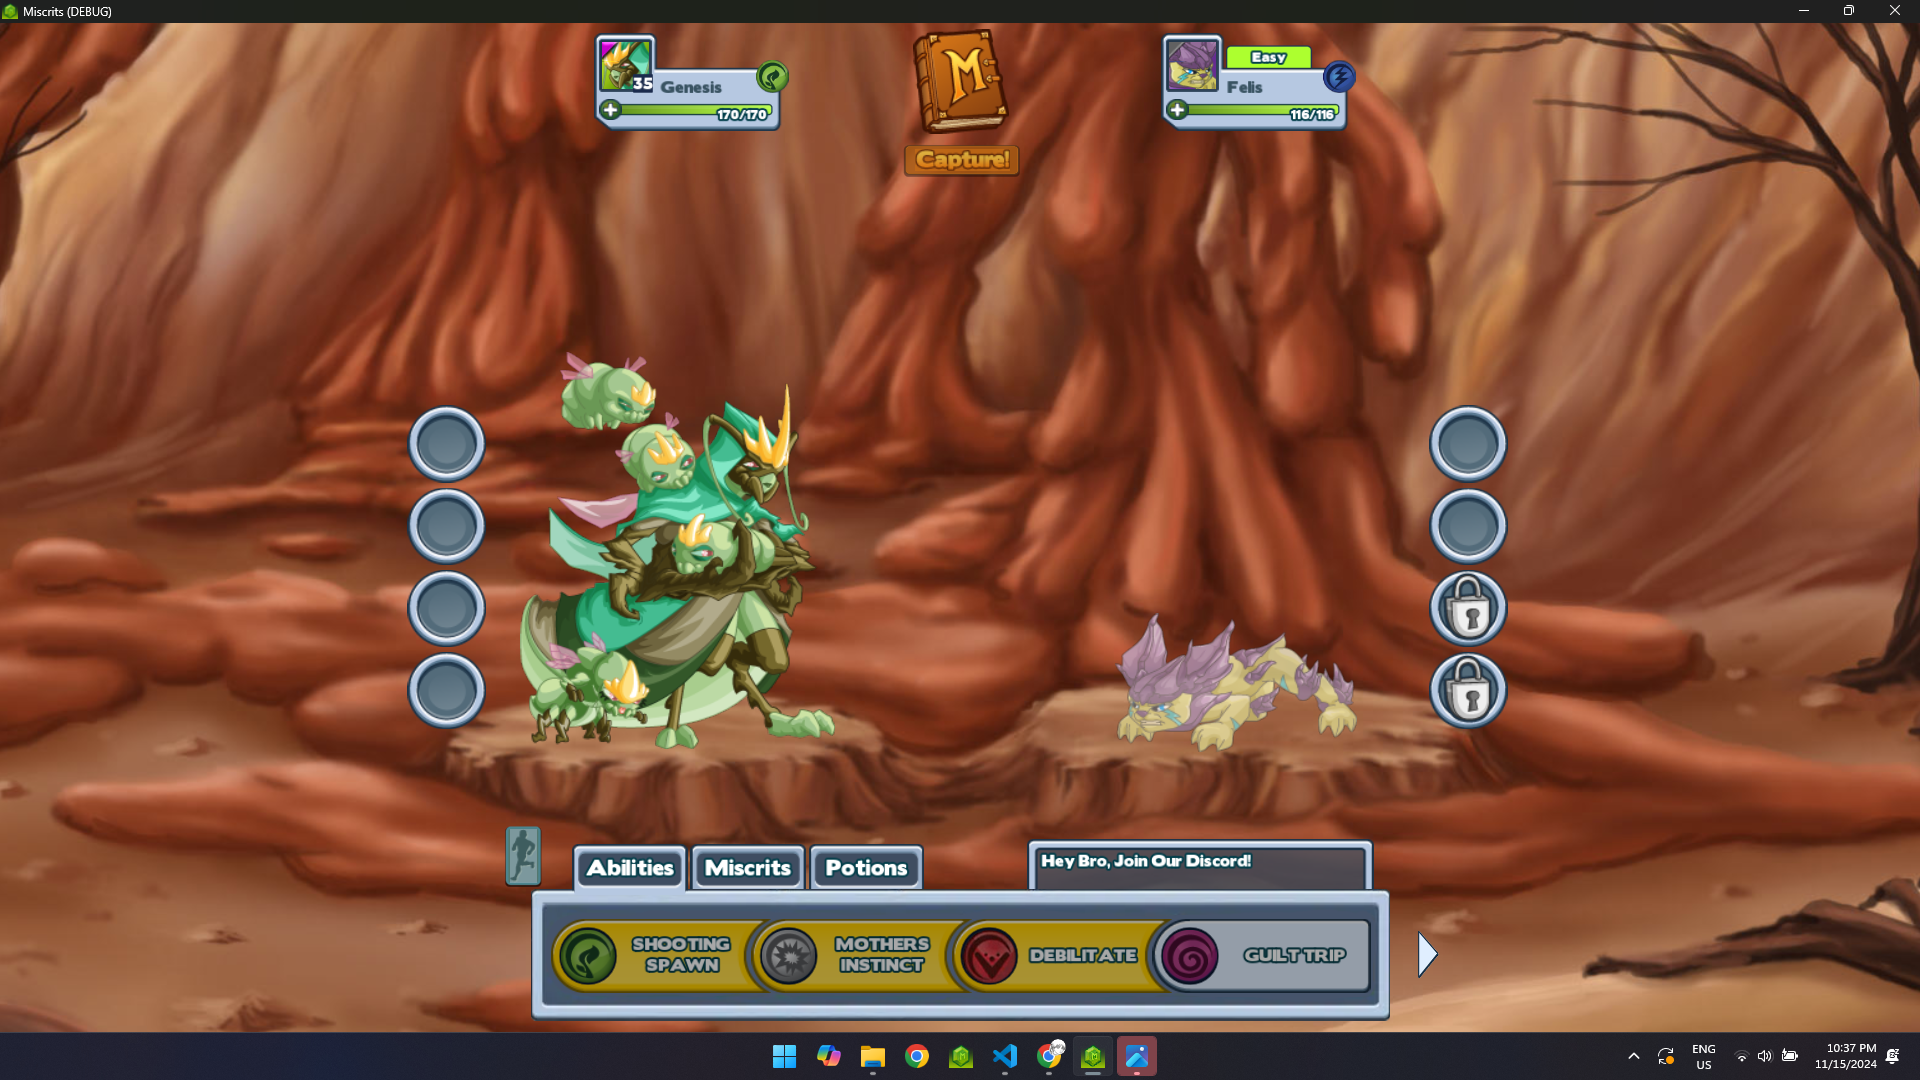
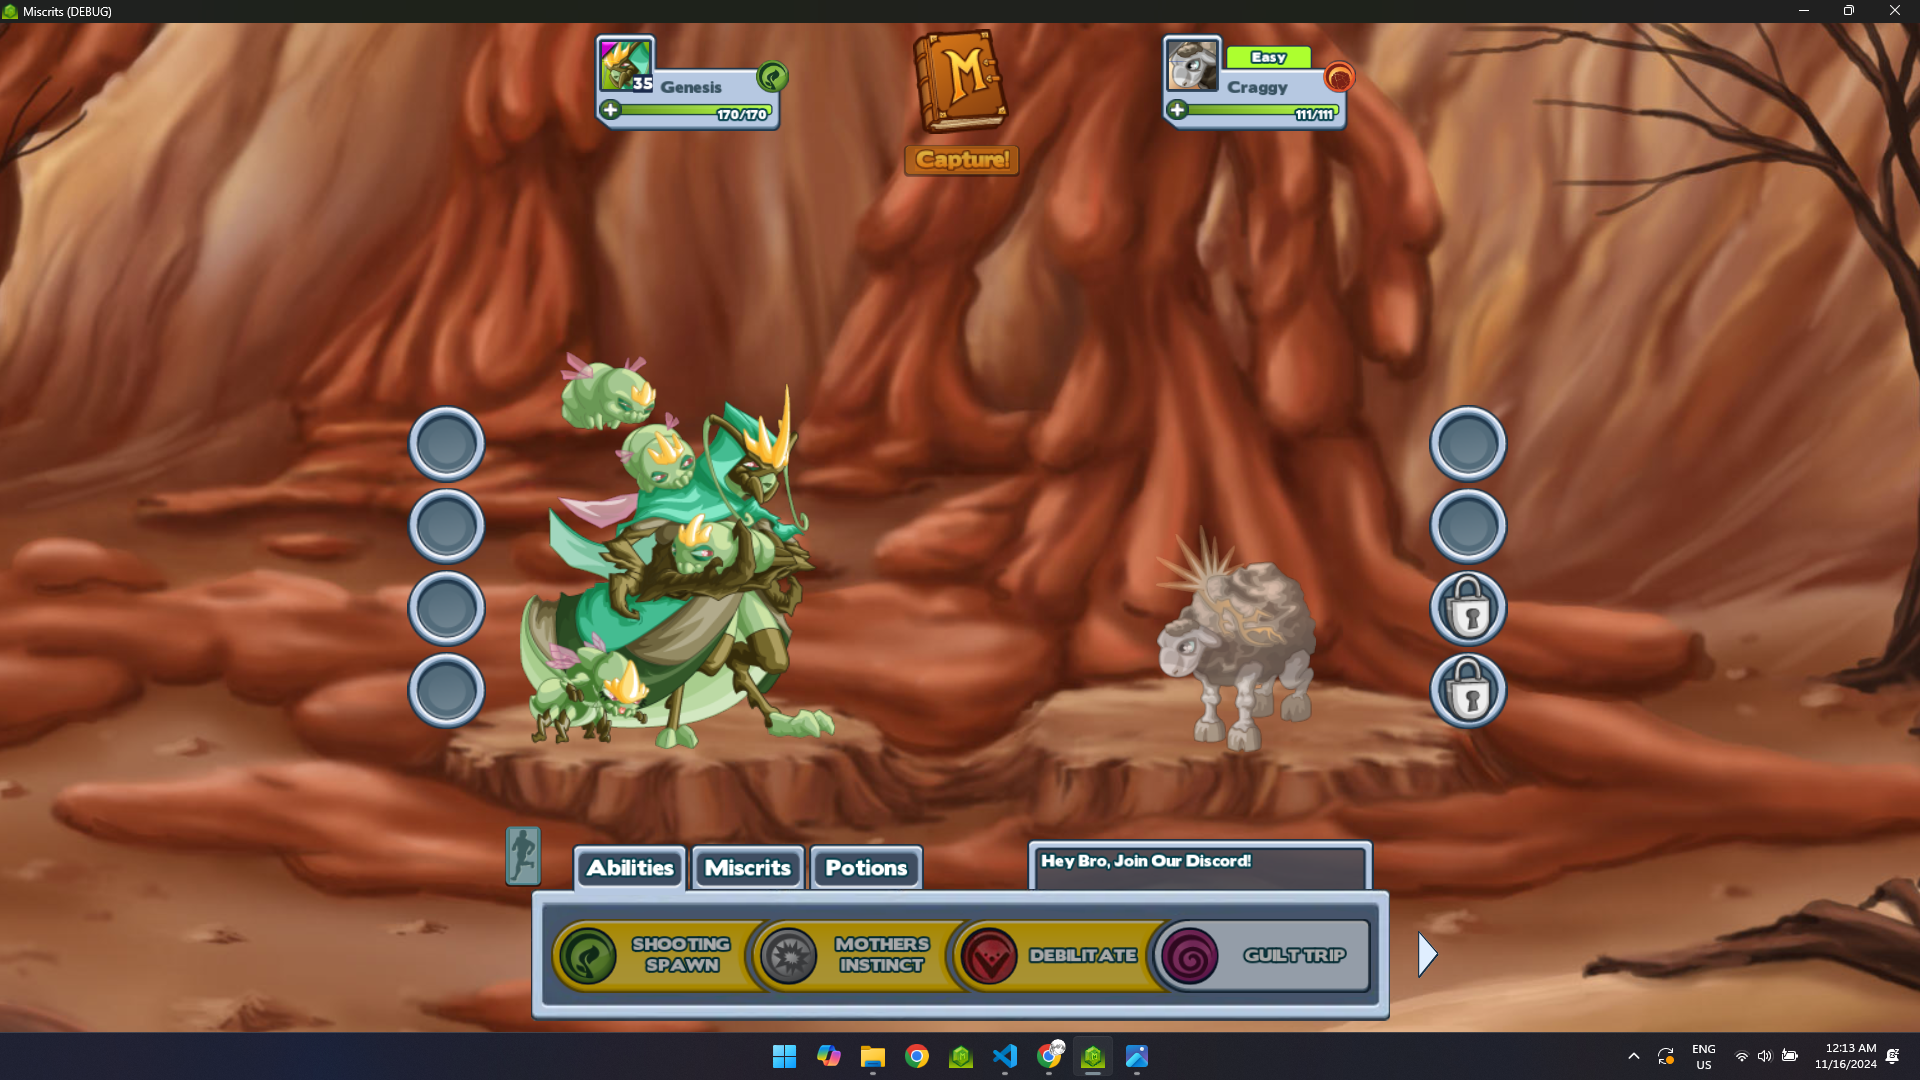
working detect when evolved

Changed region(s): [[0.5625, 0.4889, 0.7188, 0.7028], [0.5938, 0.0306, 0.7188, 0.1222], [0.5625, 0.9472, 0.625, 1.0]]

diff --git a/miscritsexpfarm.py b/miscritsexpfarm.py
@@ -297,19 +297,23 @@ def handle_training():
         time.sleep(1)
 
         # Wait for animation to complete before checking for evolved text
-        time.sleep(1)  # Add a 1-second delay before evolved detection
+        print("Waiting for evolution animation to complete...")
+        time.sleep(2)  # Increased delay to 2 seconds for evolution animation
 
         # Check for evolved text after plat training
         evolved_detected = False
-        for _ in range(2):  # Increased retries to 2 (you can adjust this value)
+        for attempt in range(3):  # Increased retries to 3
             if detect_evolved_text():
                 evolved_detected = True
-                print("Evolved text detected! Clicking to proceed.")
-                pyautogui.click((898, 824))  # Adjust coordinates as necessary
+                print("Evolved text detected on attempt", attempt + 1)
+                pyautogui.click((898, 824))  # Click evolved Miscrit
                 time.sleep(1)
-                pyautogui.click((898, 764))  # Adjust coordinates as necessary
+                pyautogui.click((898, 764))  # Confirm evolution
                 time.sleep(1)
-                break  # Exit loop if evolved text is detected
+                break
+            else:
+                print(f"Attempt {attempt + 1}: Evolved text not detected. Retrying...")
+                time.sleep(1)  # Delay before retrying
 
         if not evolved_detected:
             print("Evolved text not detected after retries. Proceeding without evolution action.")
@@ -321,6 +325,7 @@ def handle_training():
         time.sleep(1)
 
     # Close the training window
+    print("Closing the training window...")
     pyautogui.click(CLOSE_TRAIN_BUTTON_COORDS)
     time.sleep(1)
 
